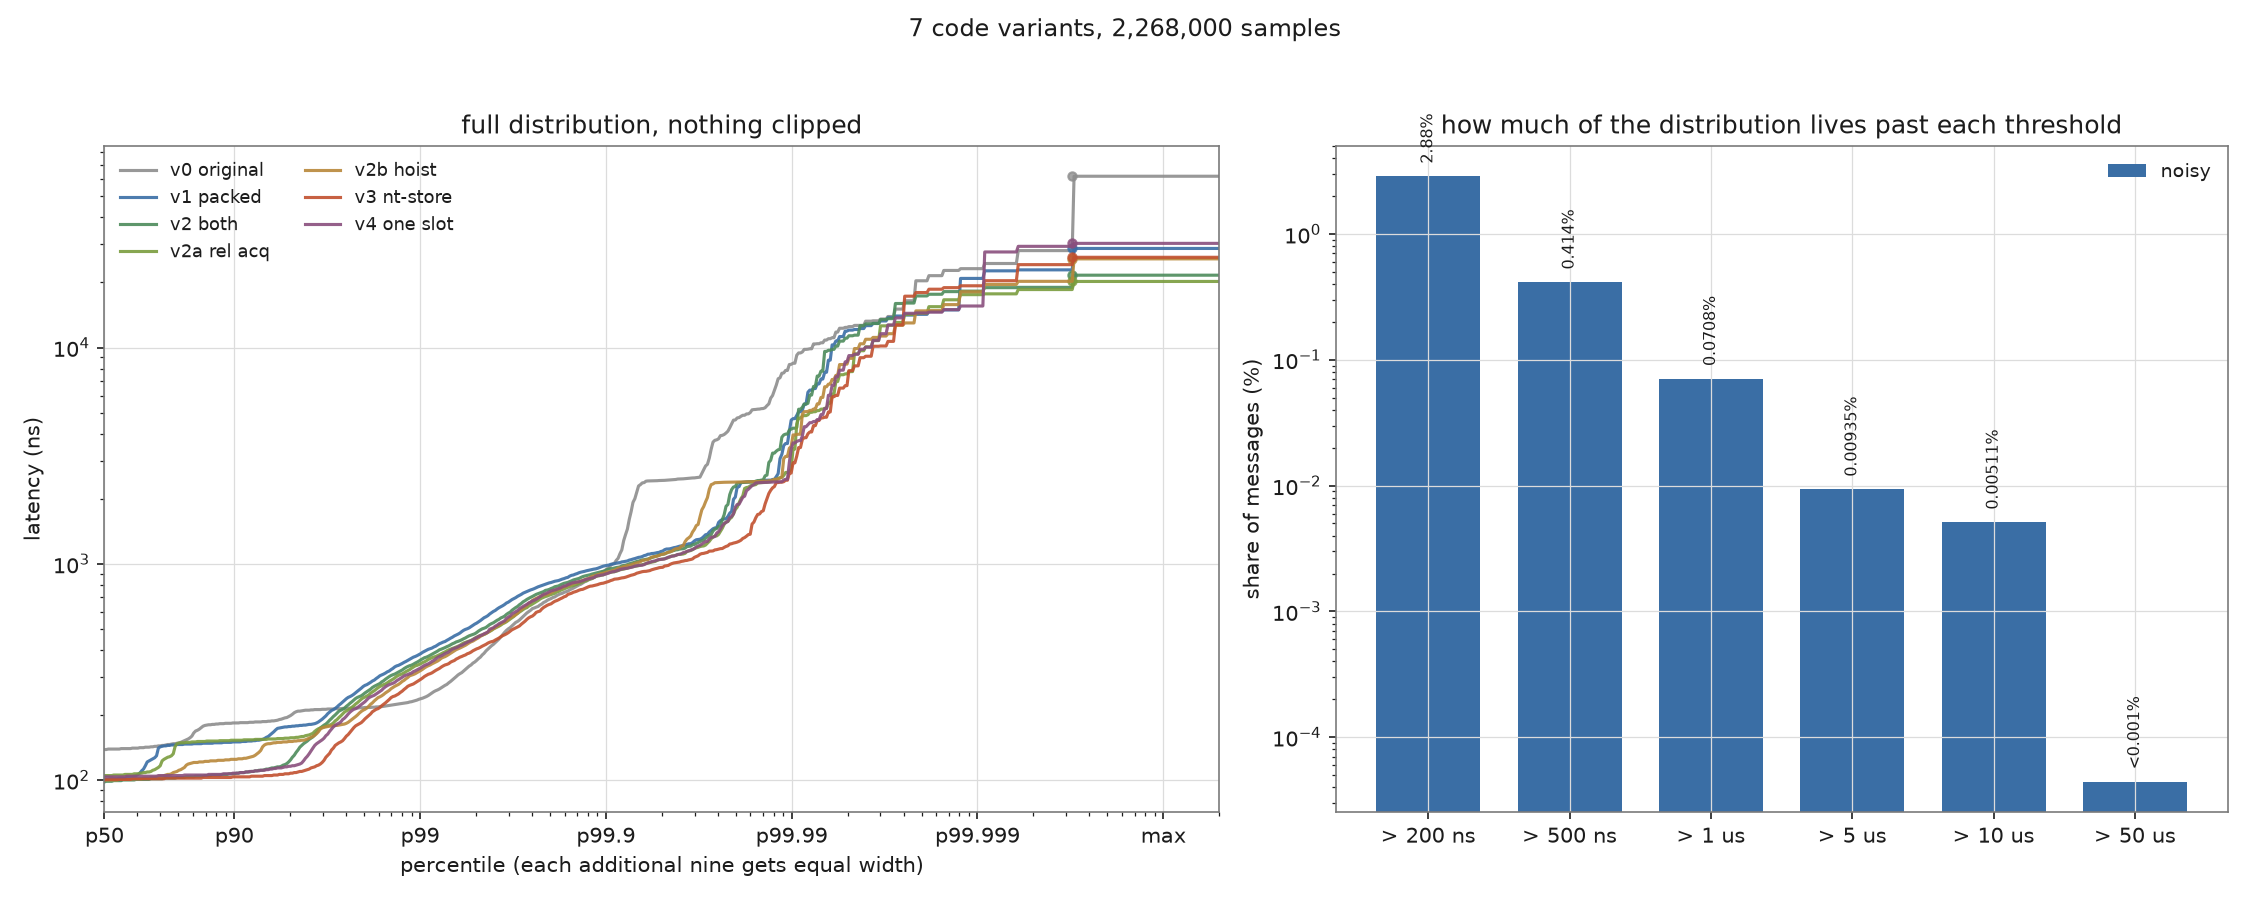
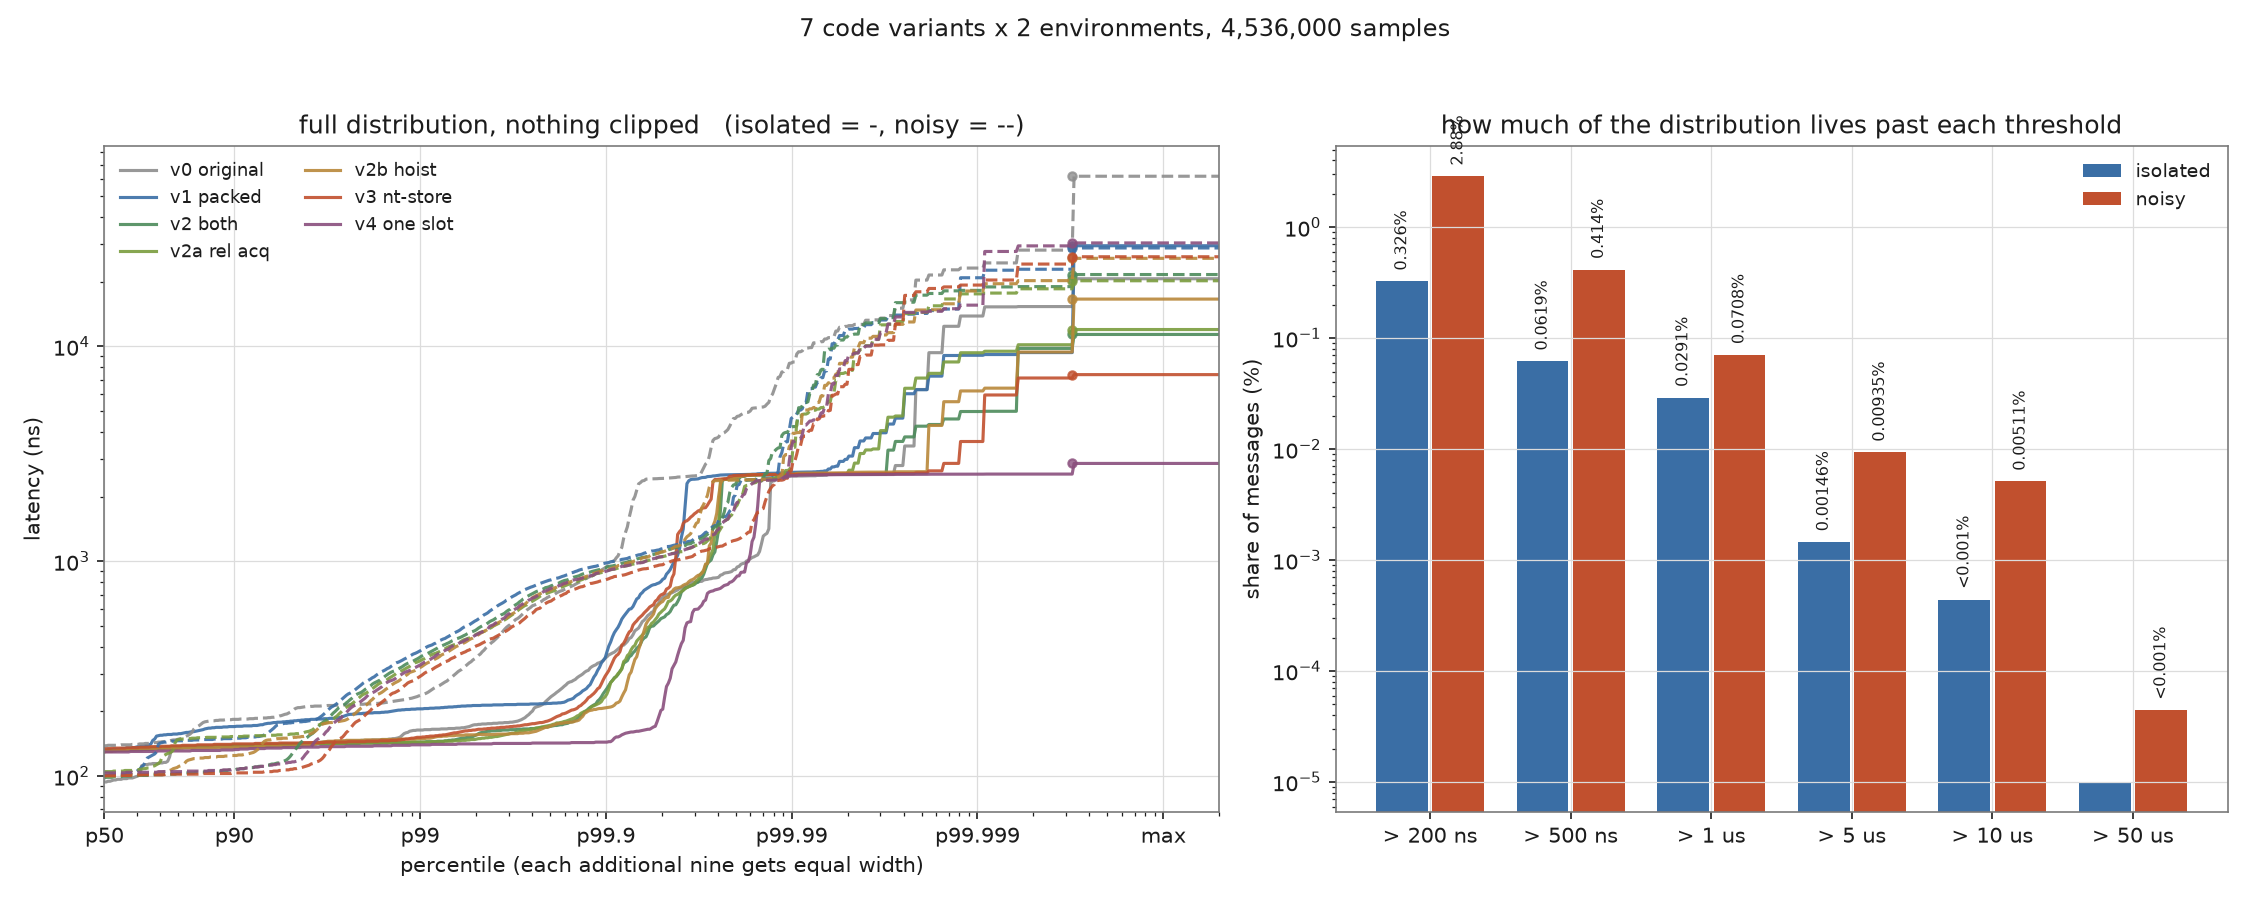
Put the variant comparison figure in the README
Adds the full-range percentile plot and the exceedance chart, plus the
proportion the figure makes visible: 2.9% of messages past 200 ns, 0.07% past a
microsecond, under one in a hundred thousand past 50. Worth stating in words
because a log axis conveys the shape but not the frequency, and "one in two
hundred thousand" reads as negligible until it is multiplied by the message
rate.

diff --git a/README.md b/README.md
@@ -338,6 +338,16 @@ waiting for an event that arrives in 100 ns would cost more than it saves. It
 is there to be polite to a hyperthread sibling and to save power, and on a
 dedicated core it is the wrong instruction.
 
+![variant comparison](results/variants/variants.png)
+
+Neither axis reaches the extreme end. Every variant still records a worst case
+between 20 and 60 microseconds, and the right-hand panel puts that in
+proportion: 2.9% of messages exceed 200 ns, 0.07% exceed a microsecond, and
+fewer than one in a hundred thousand exceed 50. Those are rare enough to look
+like a rounding error and frequent enough to matter, since at ten million
+messages a second a one-in-two-hundred-thousand event happens about fifty times
+a second.
+
 The isolation is applied at runtime rather than through the kernel command
 line, via `scripts/fix_env.sh`: a cgroup v2 cpuset partition in `isolated` mode
 removes the cores from scheduler load balancing the way `isolcpus` does, every
